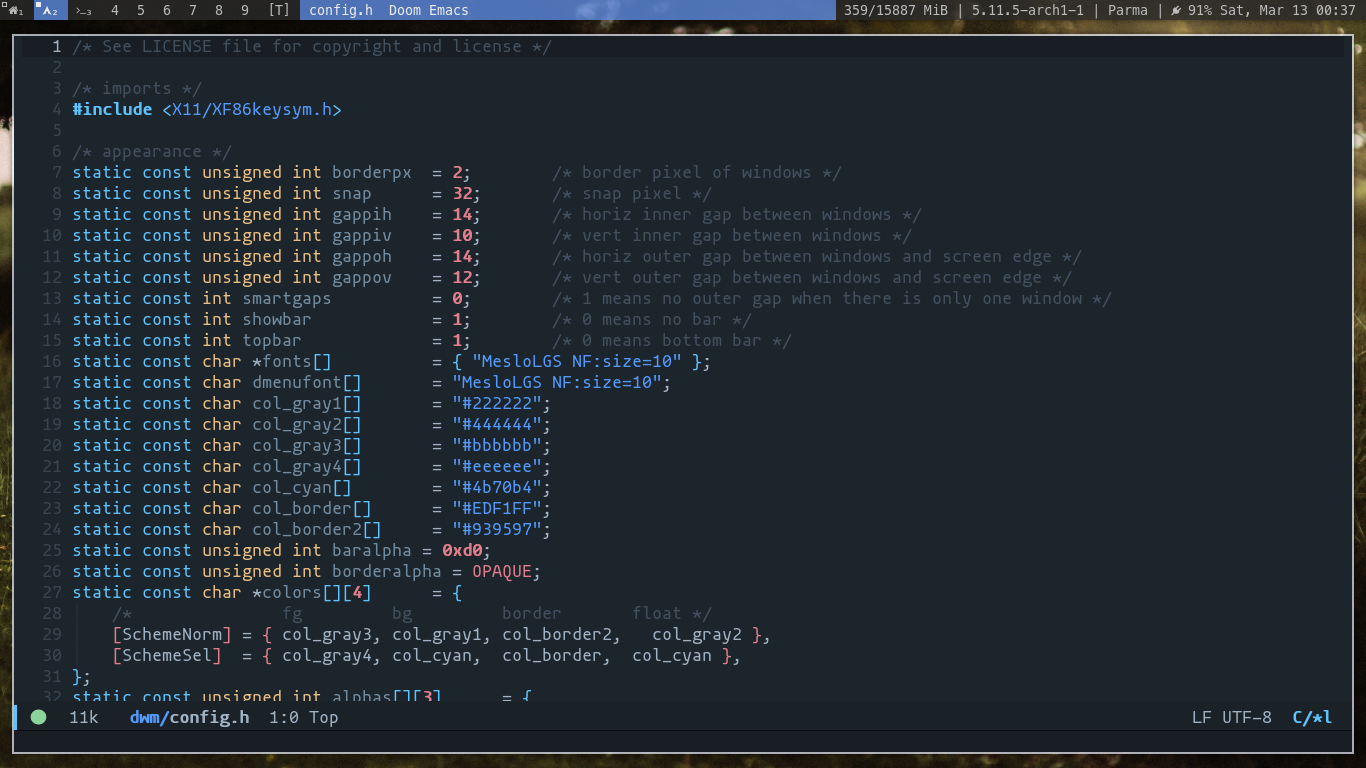
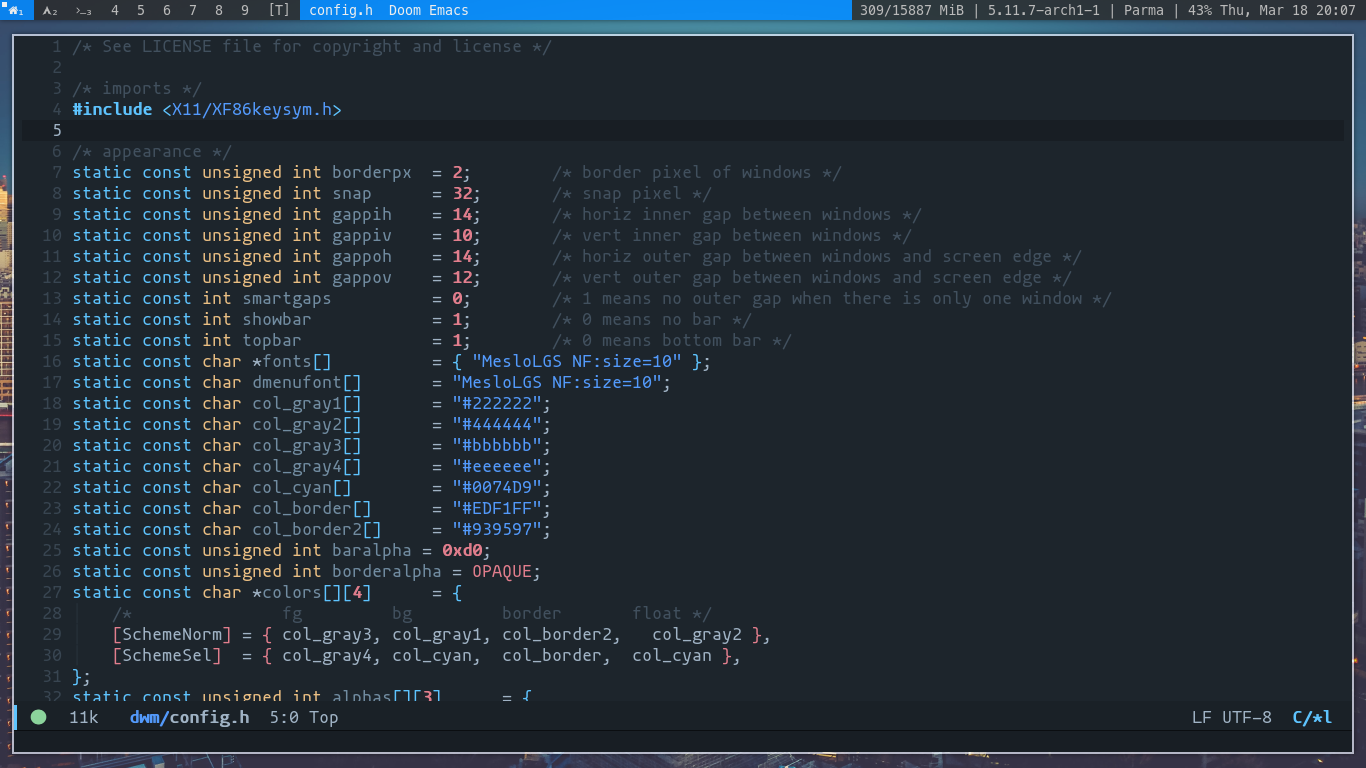
dwm

Changed region(s): [[0.0, 0.0, 1.0, 1.0], [0.3382, 0.625, 0.3997, 0.6562]]

diff --git a/config.h b/config.h
@@ -19,7 +19,7 @@ static const char col_gray1[]       = "#222222";
 static const char col_gray2[]       = "#444444";
 static const char col_gray3[]       = "#bbbbbb";
 static const char col_gray4[]       = "#eeeeee";
-static const char col_cyan[]        = "#4b70b4";
+static const char col_cyan[]        = "#0074D9";
 static const char col_border[]      = "#EDF1FF";
 static const char col_border2[]     = "#939597";
 static const unsigned int baralpha = 0xd0;
@@ -36,9 +36,9 @@ static const unsigned int alphas[][3]      = {
 };
 
 static const char *const autostart[] = {
-"picom", "-b", NULL,
+    "picom", "-b", NULL,
 	/* "/usr/bin/emacs", "--daemon", "&", NULL, */
-	NULL /* terminate */
+	NULL, /* terminate */
 };
 
 /* tagging */

diff --git a/README.md b/README.md
@@ -11,7 +11,7 @@ Some patches for dwm (special thanks): [dwm patch - suckless.org](https://dwm.su
 Images
 ------
 ![](images/image1.png)
-wallpaper source: [click here for wallpaper](https://unsplash.com/photos/uvNWlmKuXS4)
+wallpaper source: [click here for wallpaper](https://unsplash.com/photos/AzfObt86MK8)
 
 ![](images/image2.png)
 text editor: [doom emacs](https://github.com/hlissner/doom-emacs)
